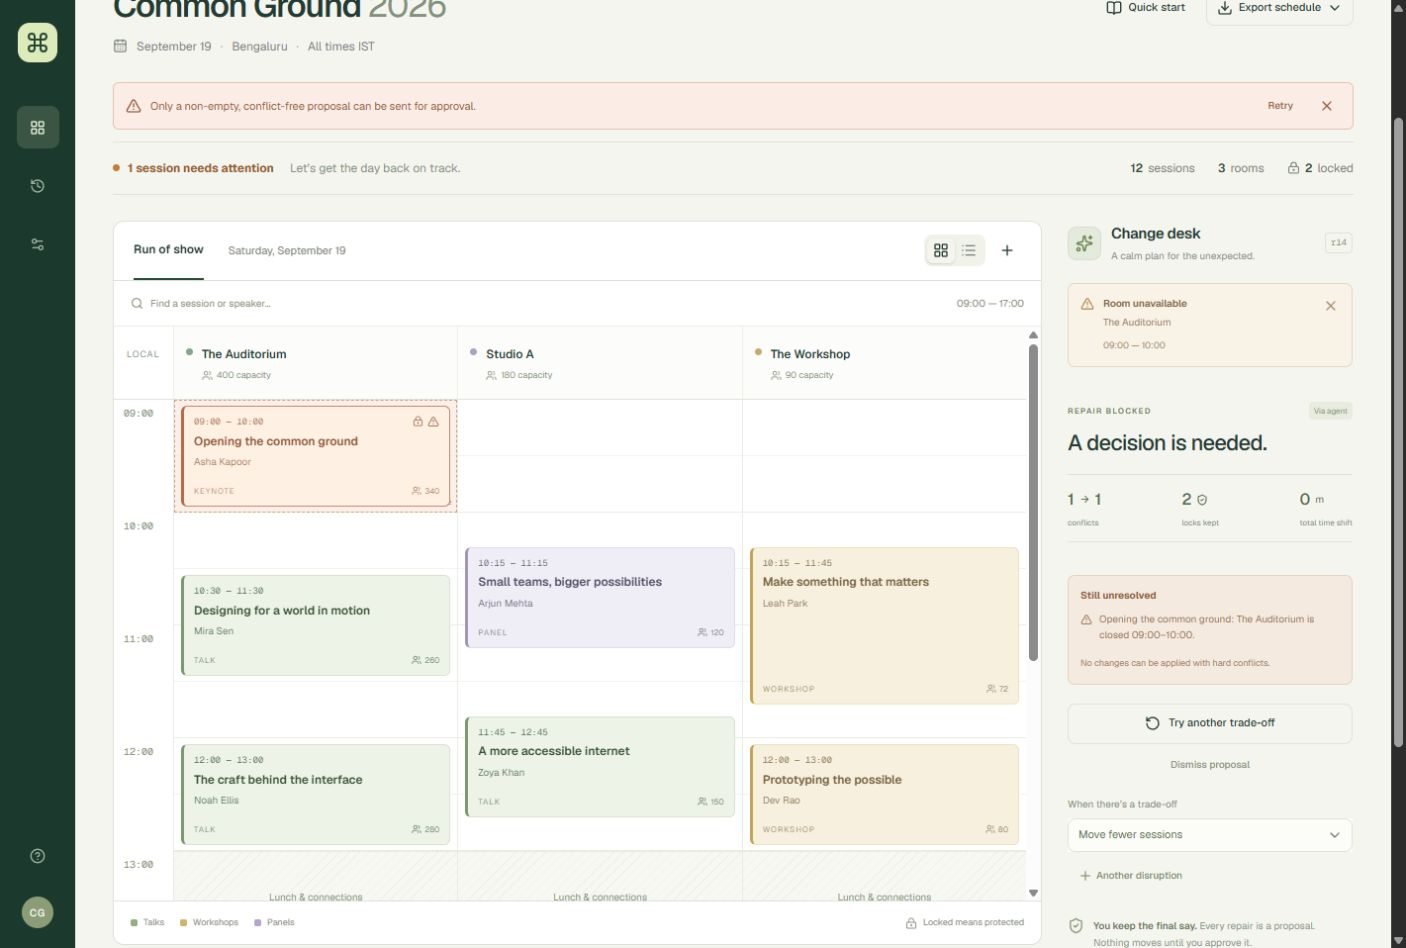
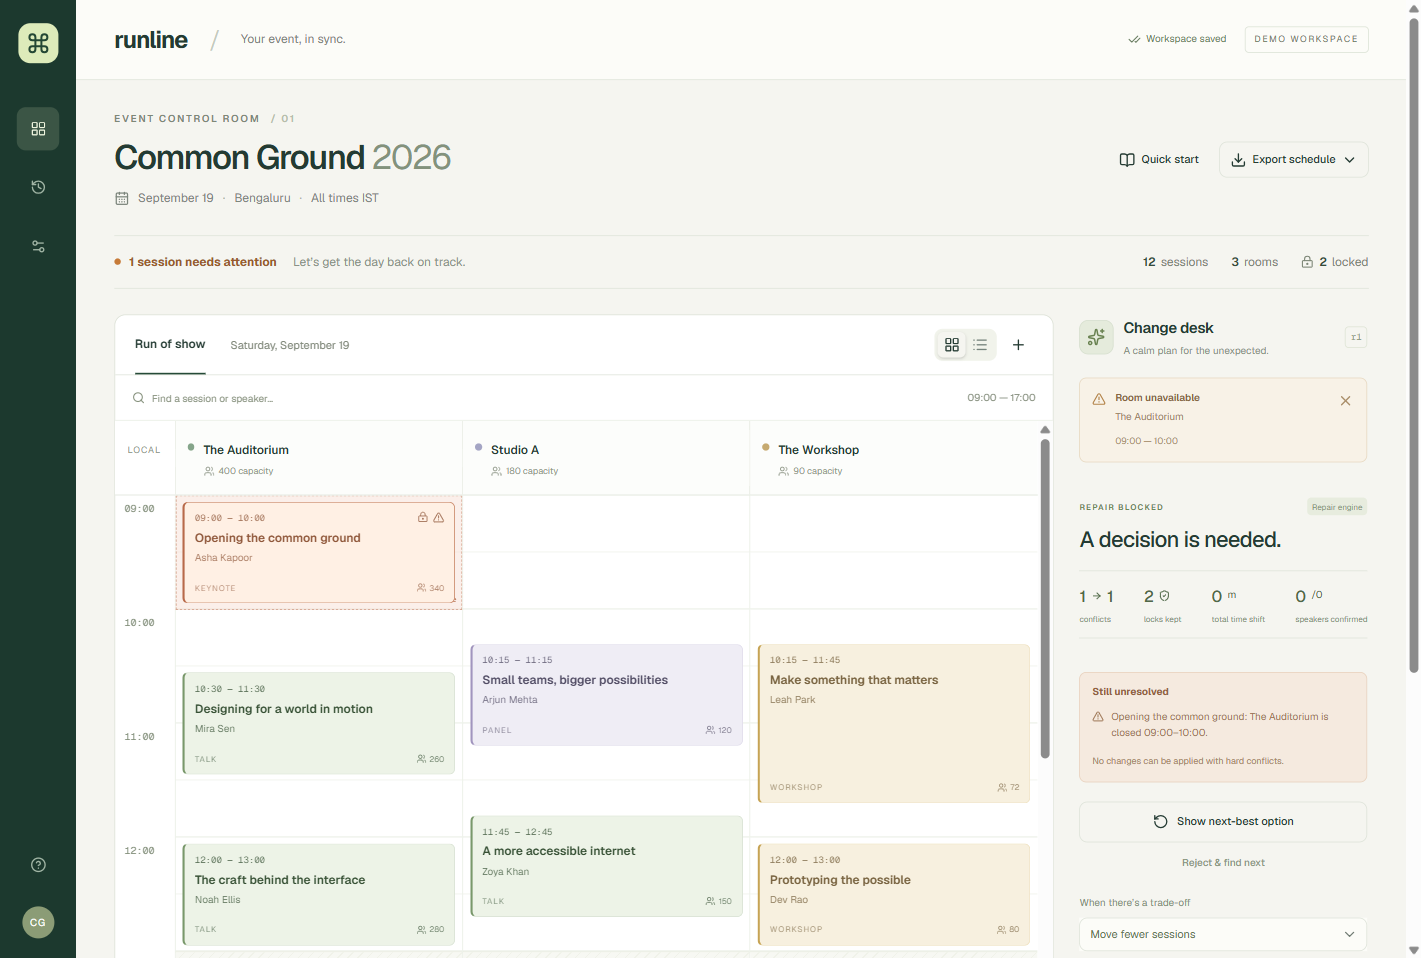
Refresh submission media for consent flow

diff --git a/docs/demo-script.md b/docs/demo-script.md
@@ -1,48 +1,48 @@
-# Runline demo — smooth final draft 1 minute 53.30 seconds
+# Runline demo — consent-focused final candidate, 1 minute 49.30 seconds
 
-Status: reviewed local video draft, not publicly uploaded. It predates the affected-speaker confirmation gate and must be refreshed before publication. `outputs/demo/runline-demo-final-smooth.mp4` is 113.30 seconds, 1920 x 1080 H.264 with normalized 48 kHz AAC narration. Its app footage and screenshots came from the real public browser session, and its response excerpts came from saved native WebMCP results. Editorial overlays explicitly identify held frames, edited pacing, fictional data, Deepgram synthetic narration and the automated organizer-interface test. The final public YouTube upload must stay public, include audio, demonstrate the current consent flow, and remain under three minutes.
+Status: technically reviewed local video candidate, not publicly uploaded. `outputs/demo/runline-demo-consent-final.mp4` is 109.30 seconds, 1920 x 1080 H.264 with normalized 48 kHz AAC narration. Its app footage and screenshots came from real public-browser sessions, including the disabled apply state, both affected-speaker confirmations, the applied schedule and an honest blocked repair. Its response excerpts came from saved native WebMCP results. Editorial overlays explicitly identify held frames, edited pacing, fictional data, Deepgram synthetic narration and the automated organizer-interface test. The final public YouTube upload must stay public, include audio and remain under three minutes.
 
 ## Prepared narration draft
 
 A synthetic narration draft has been rendered from `docs/narration-draft.ssml` using Deepgram Aura-2 Orion, a calm informative voice selected for the demo. The original fixed-section edit introduced artificial gaps of up to 5.65 seconds. `scripts/smooth-demo-narration.ps1` now shortens those editorial gaps while preserving natural breaths; the final video has no detected silent interval of 0.7 seconds or longer. `scripts/assemble-demo.mjs` accepts six comma-separated section durations so the visuals and disclosure overlays follow the actual narration instead of padding the audio. Generated media remains under the ignored `outputs/demo` directory. The renderer reads `DEEPGRAM_API_KEY` from the process environment and never writes the credential to the project.
 
-The narration was matched to genuine browser footage and the synthetic voice is disclosed throughout the video. The video container, duration, streams, dimensions, audio levels, silence profile and representative frames were checked. An auditory listen-through and frame-by-frame playback review remain required before publication. `scripts/render-deepgram-narration.py` renders a Deepgram take and refuses to overwrite an existing draft; `scripts/render-narration.ps1` remains as the local system-voice fallback. `scripts/assemble-demo.mjs` rebuilds the edit from saved evidence and also refuses to overwrite. No public upload has occurred.
+The narration was matched to genuine browser footage and the synthetic voice is disclosed throughout the video. The video container, duration, streams, dimensions, silence profile, a nine-frame contact sheet and full-resolution consent/applied frames were checked. An auditory listen-through and frame-by-frame playback review remain required before publication. `scripts/render-deepgram-narration.py` renders a Deepgram take and refuses to overwrite an existing draft; `scripts/render-narration.ps1` remains as the local system-voice fallback. `scripts/assemble-demo.mjs` normalizes mixed browser screenshot formats, rebuilds the edit from saved evidence and refuses to overwrite. No public upload has occurred.
 
 ## Before recording
 
 Use a compatible WebMCP browser. Open the public app directly, not an iframe. Reset the fictional sample. Confirm ten registered tools, no conflicts and two locked sessions. Hide personal browser tabs and account menus. Capture real tool execution once, then trim only waiting time; label time compression if material. Keep the readable schedule and agent alongside each other.
 
-## 0:00–0:20 — the problem
+## 0:00–0:15 — the problem
 
 Show the intact event board.
 
 “An event schedule is a network of promises. When one speaker is late, moving one box can break three others. Runline lets an organizer and their browser agent repair the same schedule together, with the human keeping the final say.”
 
-## 0:20–0:50 — native WebMCP, not a chatbot mock
+## 0:15–0:36 — native WebMCP, not a chatbot mock
 
 Show the browser's actual tool discovery and submit the app's starter prompt. Show reads of sessions and constraints, then `report_disruption` for Mira until 14:00.
 
 “There is no chatbot embedded here. Runline exposes ten WebMCP tools to the browser agent. It reads the real room capacities, speaker availability, lunch break and protected sessions. Mira is delayed until two. The agent records that fact; the live schedule has not changed.”
 
-## 0:50–1:25 — a real proposal and its cost
+## 0:36–0:58 — a real proposal and its cost
 
 Show `propose_repair`, inspect the returned proposal, compare Current and Proposal. For the baseline delay, the tested engine finds a two-session repair while preserving the locks; use the actual visible times if the algorithm changes.
 
 “The agent asks for a repair that favors fewer changes. Runline searches valid placements and exposes the cost: which sessions move, how far their times shift, and whether rooms change. This is a bounded search, not a claim of global optimality. Before and after are visible, and every hard constraint is checked.”
 
-## 1:25–1:55 — human agency is the point
+## 0:58–1:18 — human agency is the point
 
 Show `request_approval`, pending status, then open **Collect confirmations**. Confirm each affected fictional speaker before manually applying. Optionally decline once to show Runline produce a distinct next-best option, then confirm the replacement plan. Show zero conflicts and the saved activity entry.
 
 “The agent requests review. That does not apply the plan. Each speaker whose session changes must confirm, and a decline sends Runline to the next distinct option. Once every affected speaker agrees, I apply it here. The server checks the latest version, constraints and confirmations again before saving. Now the board and the history agree.”
 
-## 1:55–2:20 — prove a limit instead of hiding it
+## 1:18–1:34 — prove a limit instead of hiding it
 
 Reset; report an auditorium closure covering the locked opening. Find a repair and show the blocked state. Optionally use a separate concise clip if the full agent turn is too long. Do not imply this scenario was repaired.
 
 “Some changes should not be automated away. If the opening is protected and its room is unavailable, Runline shows the blocker. It does not silently move the keynote or pretend the task succeeded. The organizer must change the constraint or make a new decision.”
 
-## 2:20–2:40 — close with what is real
+## 1:34–1:49 — close with what is real
 
 Show CSV/ICS/JSON exports and return to the board. End on the app's title/social card for two seconds.
 

diff --git a/docs/verification.md b/docs/verification.md
@@ -1,6 +1,6 @@
 # Verification record
 
-Date: September 2, 2026, IST. Environment: Windows, Node 24.14.1. This separates completed checks from required release gates.
+Date: September 3, 2026, IST. Environment: Windows, Node 24.14.1. This separates completed checks from required release gates.
 
 ## Completed automated checks
 
@@ -11,15 +11,17 @@ Date: September 2, 2026, IST. Environment: Windows, Node 24.14.1. This separates
 - The public app registered all ten Runline tools in the intended in-app browser. Every tool was executed against an isolated fictional workspace. Read tools returned the saved event; `report_disruption` changed only constraints; `propose_repair` returned a two-session, zero-conflict repair; `request_approval` left the schedule pending; and the organizer interface applied it. Reload preserved the repair and `get_activity` returned the matching saved actions.
 - A newer organizer lock made an existing proposal stale. Both the review UI and native `request_approval` rejected it. A separate auditorium-closure scenario covering the locked opening returned one unresolved conflict and rejected the approval request. A custom proposal was accepted for review, while a custom move of the locked opening was rejected.
 - Browser interaction checks covered desktop board/agenda switching, search, session add/edit/remove confirmations, event settings, reset, undo and concurrent-change protection, malformed and valid JSON import, all three export controls, activity history, proposal comparison/review, Escape-close behavior, and a 390 x 844 phone viewport. The phone page had no document-level horizontal overflow; its schedule board remained intentionally scrollable. No browser console errors were present at the final clean sample.
-- The complete MIT-licensed source is public at https://github.com/jozai193/runline-webmcp. Anonymous HTTP access and a fresh unauthenticated clone were verified. That clone passed `npm ci` with zero known vulnerabilities, all 45 tests, lint, typecheck and the production build.
+- A fresh unauthenticated in-memory browser profile completed the current public workflow from sample creation through a two-session proposal, 0/2 confirmation gate, both affected-speaker confirmations, apply and persisted repaired state. A separate fresh profile produced the auditorium-closure blocked state used in the gallery.
+- The complete MIT-licensed source is public at https://github.com/jozai193/runline-webmcp. Anonymous HTTP access and a fresh unauthenticated clone were verified. That clone passed `npm ci` with zero known vulnerabilities, all 47 tests, lint, typecheck and the production build.
 - Production Worker build passed after upgrading vulnerable starter dependencies.
 - The current 25 HTTP checks passed against both the local Worker/D1 runtime and the public September 2 deployment, with a healthy response afterward. A local Wrangler unread-request-body failure was reproduced and addressed by bounded body consumption before rejection; all origin, size and content-type checks remain enforced. Related upstream report: https://github.com/cloudflare/workers-sdk/issues/15203.
 - `npm install` audit reported zero known vulnerabilities after the pinned dependency updates and a scoped esbuild override. This is not a full security audit and does not guarantee absence of vulnerabilities.
 - Drizzle schema generation passed with the scoped override and reported no missing migrations.
+- The local consent-focused video candidate is 109.30 seconds with 1920 x 1080 H.264 video and 48 kHz mono AAC audio. Silence detection at -42 dB found no interval of 0.7 seconds or longer. A nine-frame contact sheet plus full-resolution consent and applied frames were visually checked after normalizing mixed browser screenshot formats.
 
 ## Remaining release gates
 
-- Listen through the narrated draft and review motion/pacing before any upload. Container, duration, dimensions, audio stream/levels and an eight-frame visual contact sheet were checked; this is not an auditory or frame-by-frame review.
+- Listen through the narrated candidate and review motion/pacing before any upload. Container, duration, dimensions, audio stream, silence profile and representative frames were checked; this is not an auditory or frame-by-frame review.
 - Upload the approved, narrated video publicly (not unlisted), then verify playback from a signed-out session.
 - Recheck the final Devpost entry, entrant/team eligibility, public URLs and required acknowledgements; submit only after explicit user approval.
 

diff --git a/docs/submission.md b/docs/submission.md
@@ -1,6 +1,6 @@
 # WebMCP Challenge submission pack
 
-Prepared September 2, 2026, India time. The live demo and source repository are public. The video and Devpost entry remain unpublished drafts; no final submission has been made on the entrant's behalf.
+Prepared September 3, 2026, India time. The live demo and source repository are public. The video and Devpost entry remain unpublished drafts; no final submission has been made on the entrant's behalf.
 
 ## Submission fields
 
@@ -18,7 +18,7 @@ Prepared September 2, 2026, India time. The live demo and source repository are 
 
 **Thumbnail:** `public/og.png` (1536 x 1024, 3:2).
 
-**Gallery order:** baseline workspace, two-session repair, organizer review, honest blocked state (`public/devpost/gallery-baseline.png`, `gallery-repair.png`, `gallery-review.png`, `gallery-blocked.png`).
+**Gallery order:** baseline workspace, two-session repair, affected-speaker confirmation gate, honest blocked state (`public/devpost/gallery-baseline.png`, `gallery-repair.png`, `gallery-review.png`, `gallery-blocked.png`).
 
 ## Additional information fields
 
@@ -118,7 +118,8 @@ Sources: [overview](https://webmcp.devpost.com/), [official rules](https://webmc
 - [x] Public app loads without owner-only access restrictions; each judge gets a fresh sample.
 - [x] Public repository includes all application source, migration, tests, README and license; no secrets or private test records. Anonymous clone, install, tests, lint, typecheck and build passed.
 - [ ] Public narrated YouTube demo exists, is under three minutes, and plays signed out.
-- [ ] Final app, source and video URLs are entered into Devpost; draft prose updated to match demonstrated behavior.
+- [x] Draft prose and gallery assets match the demonstrated consent and blocked-state behavior.
+- [ ] Final app, source and video URLs are entered into Devpost.
 - [ ] Team invitations accepted and required questions answered accurately by the entrant.
 - [ ] User approves final Devpost submission; submit and verify confirmation.
 - [ ] Record the submitted source revision and freeze required materials through judging.

diff --git a/docs/publication.md b/docs/publication.md
@@ -15,7 +15,7 @@ Anonymous HTTP access and a fresh unauthenticated clone were verified. `README.m
 
 ## Public YouTube video
 
-- File: `outputs/demo/runline-demo-final.mp4`
+- File: `outputs/demo/runline-demo-consent-final.mp4`
 - Title: `Runline — A Human-Agent Event Control Room with WebMCP`
 - Visibility: public, not unlisted
 - Audience: the account owner must choose the accurate YouTube audience declaration
@@ -26,7 +26,7 @@ Suggested description:
 >
 > Live demo: https://runline-control-room.advikmjevoor.chatgpt.site
 >
-> Source: [insert verified public repository URL]
+> Source: https://github.com/jozai193/runline-webmcp
 >
 > Built for the WebMCP Challenge. The event and people shown are fictional. The demonstration uses genuine browser captures and native tool results, edited for pacing, with disclosed Deepgram Aura-2 synthetic narration. The demo records confirmations but does not authenticate speaker identity or send notifications.
 
@@ -34,14 +34,14 @@ Suggested chapters:
 
 ```text
 00:00 One disruption, cascading consequences
-00:19 Native WebMCP tools read real state
-00:44 A two-session repair with visible trade-offs
-01:10 Affected speakers confirm before apply
-01:34 An impossible change stays blocked
-01:54 Persistence, exports, and closing
+00:15 Native WebMCP tools read real state
+00:36 A two-session repair with visible trade-offs
+00:58 Affected speakers confirm before apply
+01:18 An impossible change stays blocked
+01:34 Persistence, exports, and closing
 ```
 
-After upload, open the public URL in a signed-out session. Confirm 1080p playback, audible narration, readable response excerpts, exact 2:15.60 duration and public visibility. Do not use an unlisted link for the challenge.
+After upload, open the public URL in a signed-out session. Confirm 1080p playback, audible narration, readable response excerpts, exact 1:49.30 duration and public visibility. Do not use an unlisted link for the challenge.
 
 ## Devpost
 

diff --git a/README.md b/README.md
@@ -74,7 +74,7 @@ This is a hackathon demonstration, not a production event-management service. Do
 
 The included Sites configuration declares the logical D1 binding `DB`. The platform provisions the real database; do not hardcode database credentials. Build output is a Cloudflare Worker under `dist/server` with static assets. Set trusted runtime variable `RUNLINE_PUBLIC_ORIGIN` to the deployed origin for absolute social previews. Local metadata defaults to `http://localhost:3000`; it never trusts forwarded host headers. No secret is required by this application.
 
-The hosted demo and source repository are public and were verified from credential-free sessions on September 2, 2026. The narrated video must be refreshed for the new speaker-confirmation flow, then publicly uploaded to YouTube and verified signed out before the hackathon submission is final.
+The hosted demo and source repository are public and were verified from credential-free sessions on September 2, 2026. A refreshed local video candidate demonstrates the speaker-confirmation flow; it still requires a human listen-through, public YouTube upload and signed-out playback check before the hackathon submission is final.
 
 ## Project materials
 

diff --git a/docs/assets.md b/docs/assets.md
@@ -10,4 +10,4 @@ The in-app controls and favicon are code-native functional UI. Interface icons a
 
 ## Devpost gallery
 
-The four images under `public/devpost/` are genuine screenshots captured from the deployed Runline demo during the verified WebMCP workflow. They show the baseline workspace, a two-session repair proposal, the organizer review step, and an intentionally blocked repair. The screenshots contain only the fictional Common Ground 2026 sample data. They are retained in the public repository so the exact Devpost media can be audited alongside the source.
+The four images under `public/devpost/` are genuine screenshots captured from the deployed Runline demo in fresh, unauthenticated in-memory browser profiles on September 2, 2026. They show the baseline workspace, a two-session repair proposal, the affected-speaker confirmation gate, and an intentionally blocked repair. The screenshots contain only the fictional Common Ground 2026 sample data. They are retained in the public repository so the exact Devpost media can be audited alongside the source.
